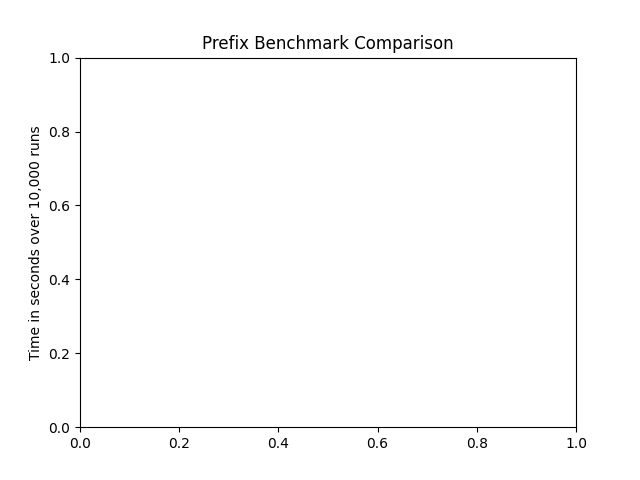
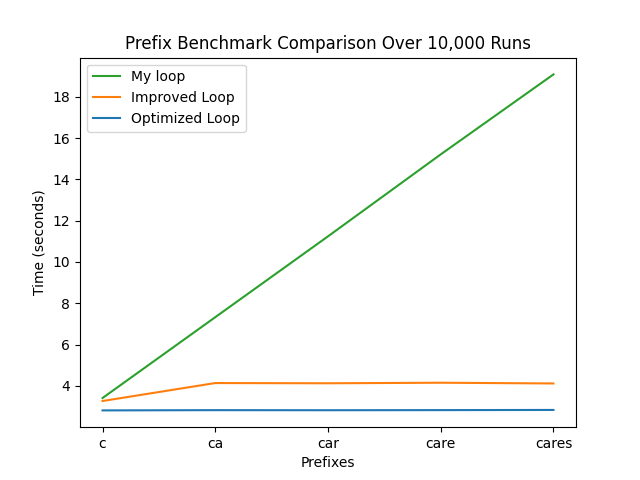
Added code to handle the csv and create a graphic display

diff --git a/midterm.py b/midterm.py
@@ -1,11 +1,20 @@
 import pandas as pd
 import matplotlib.pyplot as plt
 
-df = pd.read_csv('benchmark_results.csv')
+df = pd.read_csv('benchmark_results.csv',index_col=0)
 
-pre_labels = ['c','ca','car','care','cares']
-columns = ['slow','medium','fast']
+prefix_labels = ['c','ca','car','care','cares']
+df.columns = ['slow','medium','fast']
+df.index = prefix_labels
+df['timediff'] = df['slow'] - df['fast']
+print(df.to_markdown())
 
-plt.ylabel('Time in seconds over 10,000 runs')
-plt.title('Prefix Benchmark Comparison')
+plt.plot(df['fast'], label='Optimized Loop')
+plt.plot(df['medium'], label='Improved Loop')
+plt.plot(df['slow'], label='My loop')
+
+plt.ylabel('Time (seconds)')
+plt.xlabel('Prefixes')
+plt.title('Prefix Benchmark Comparison Over 10,000 Runs')
+plt.legend(reverse=True)
 plt.savefig('prefix_benchmark.png')

diff --git a/benchmark.py b/benchmark.py
@@ -47,8 +47,6 @@ for prefix in prefixes:
     
     results += [[slow_time, med_time, fast_time]]
 
-df = pd.DataFrame(
-    data=np.array(results)
-)
 
+df = pd.DataFrame(data=np.array(results))
 df.to_csv('benchmark_results.csv')
